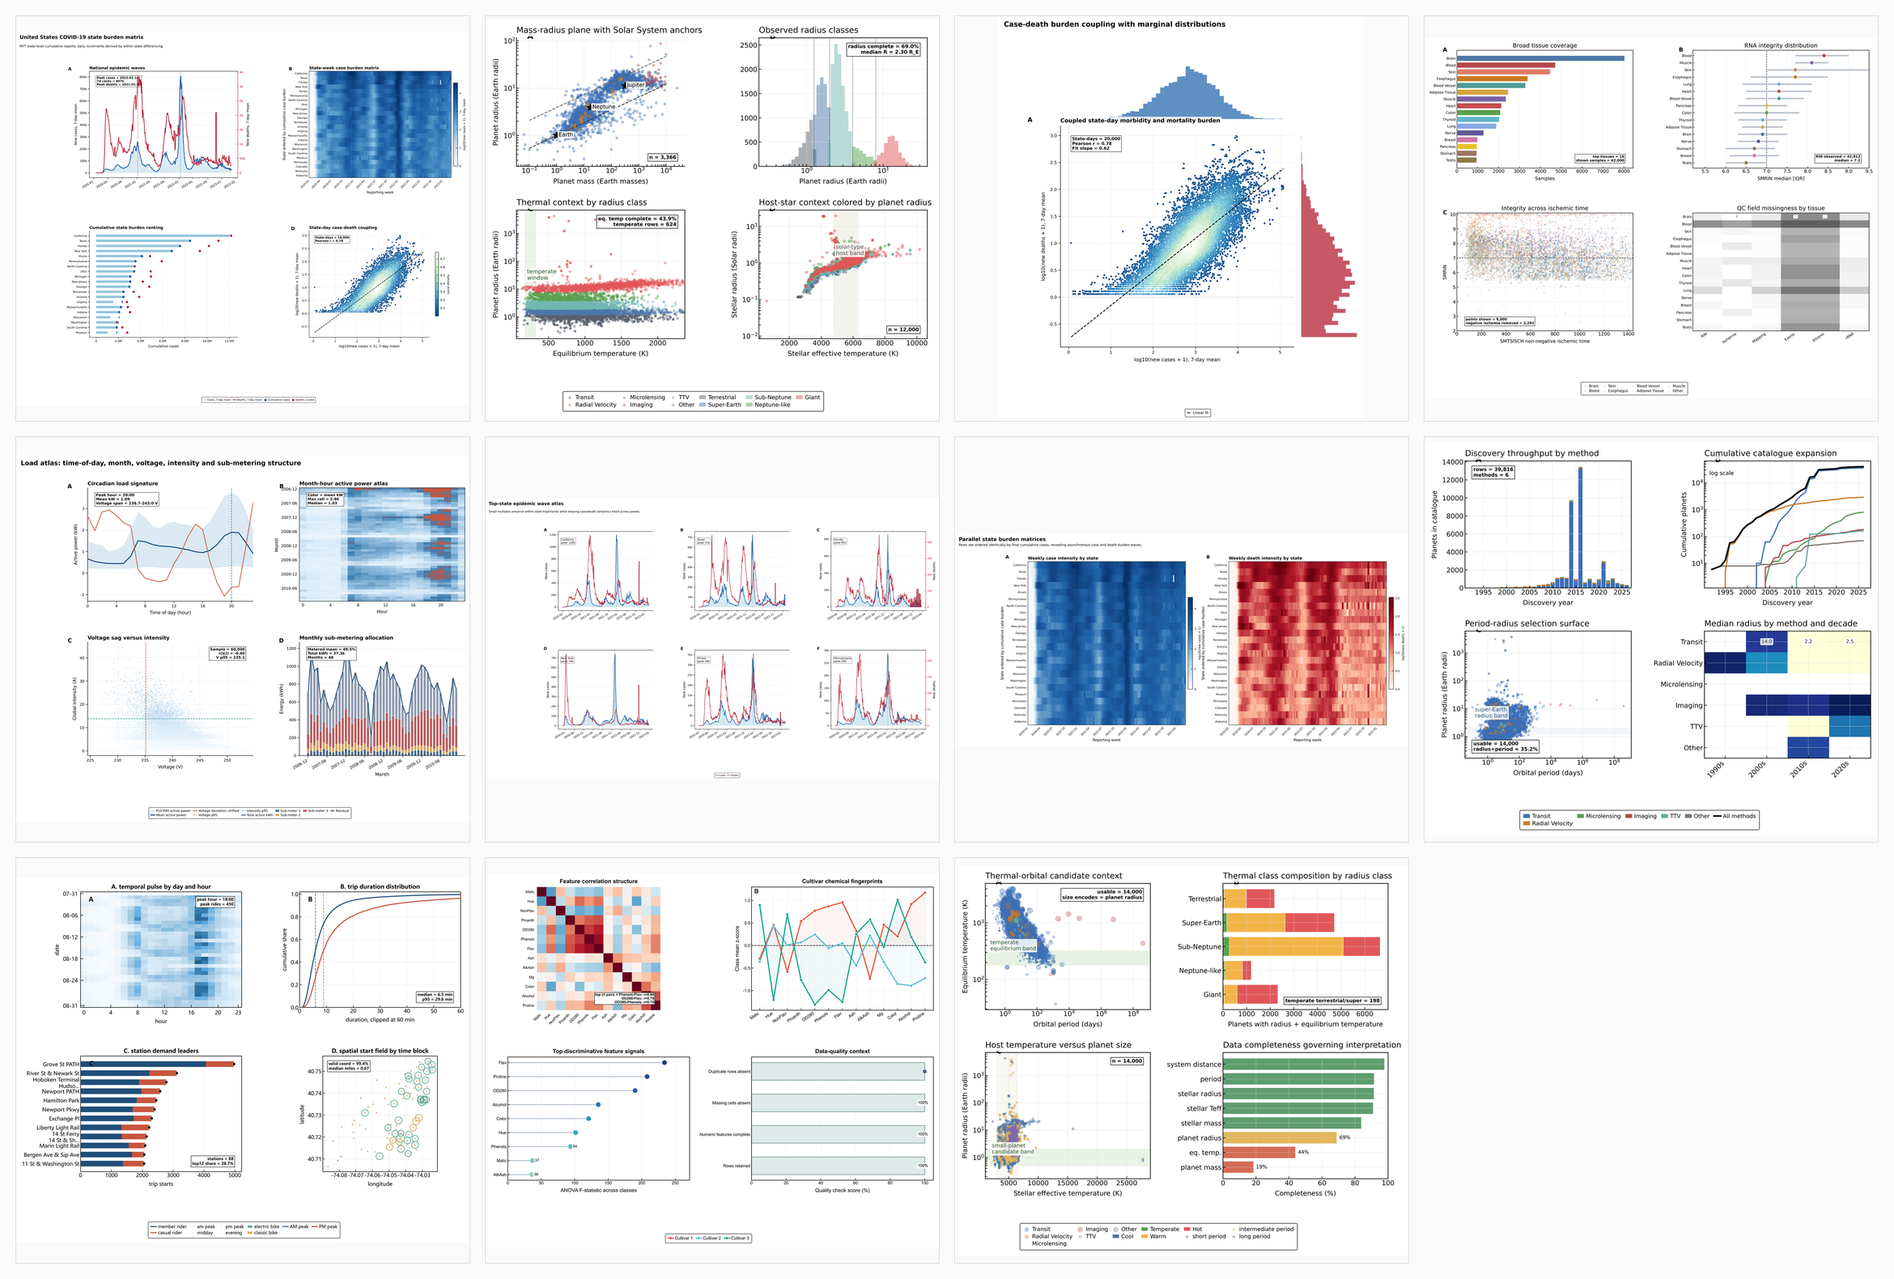
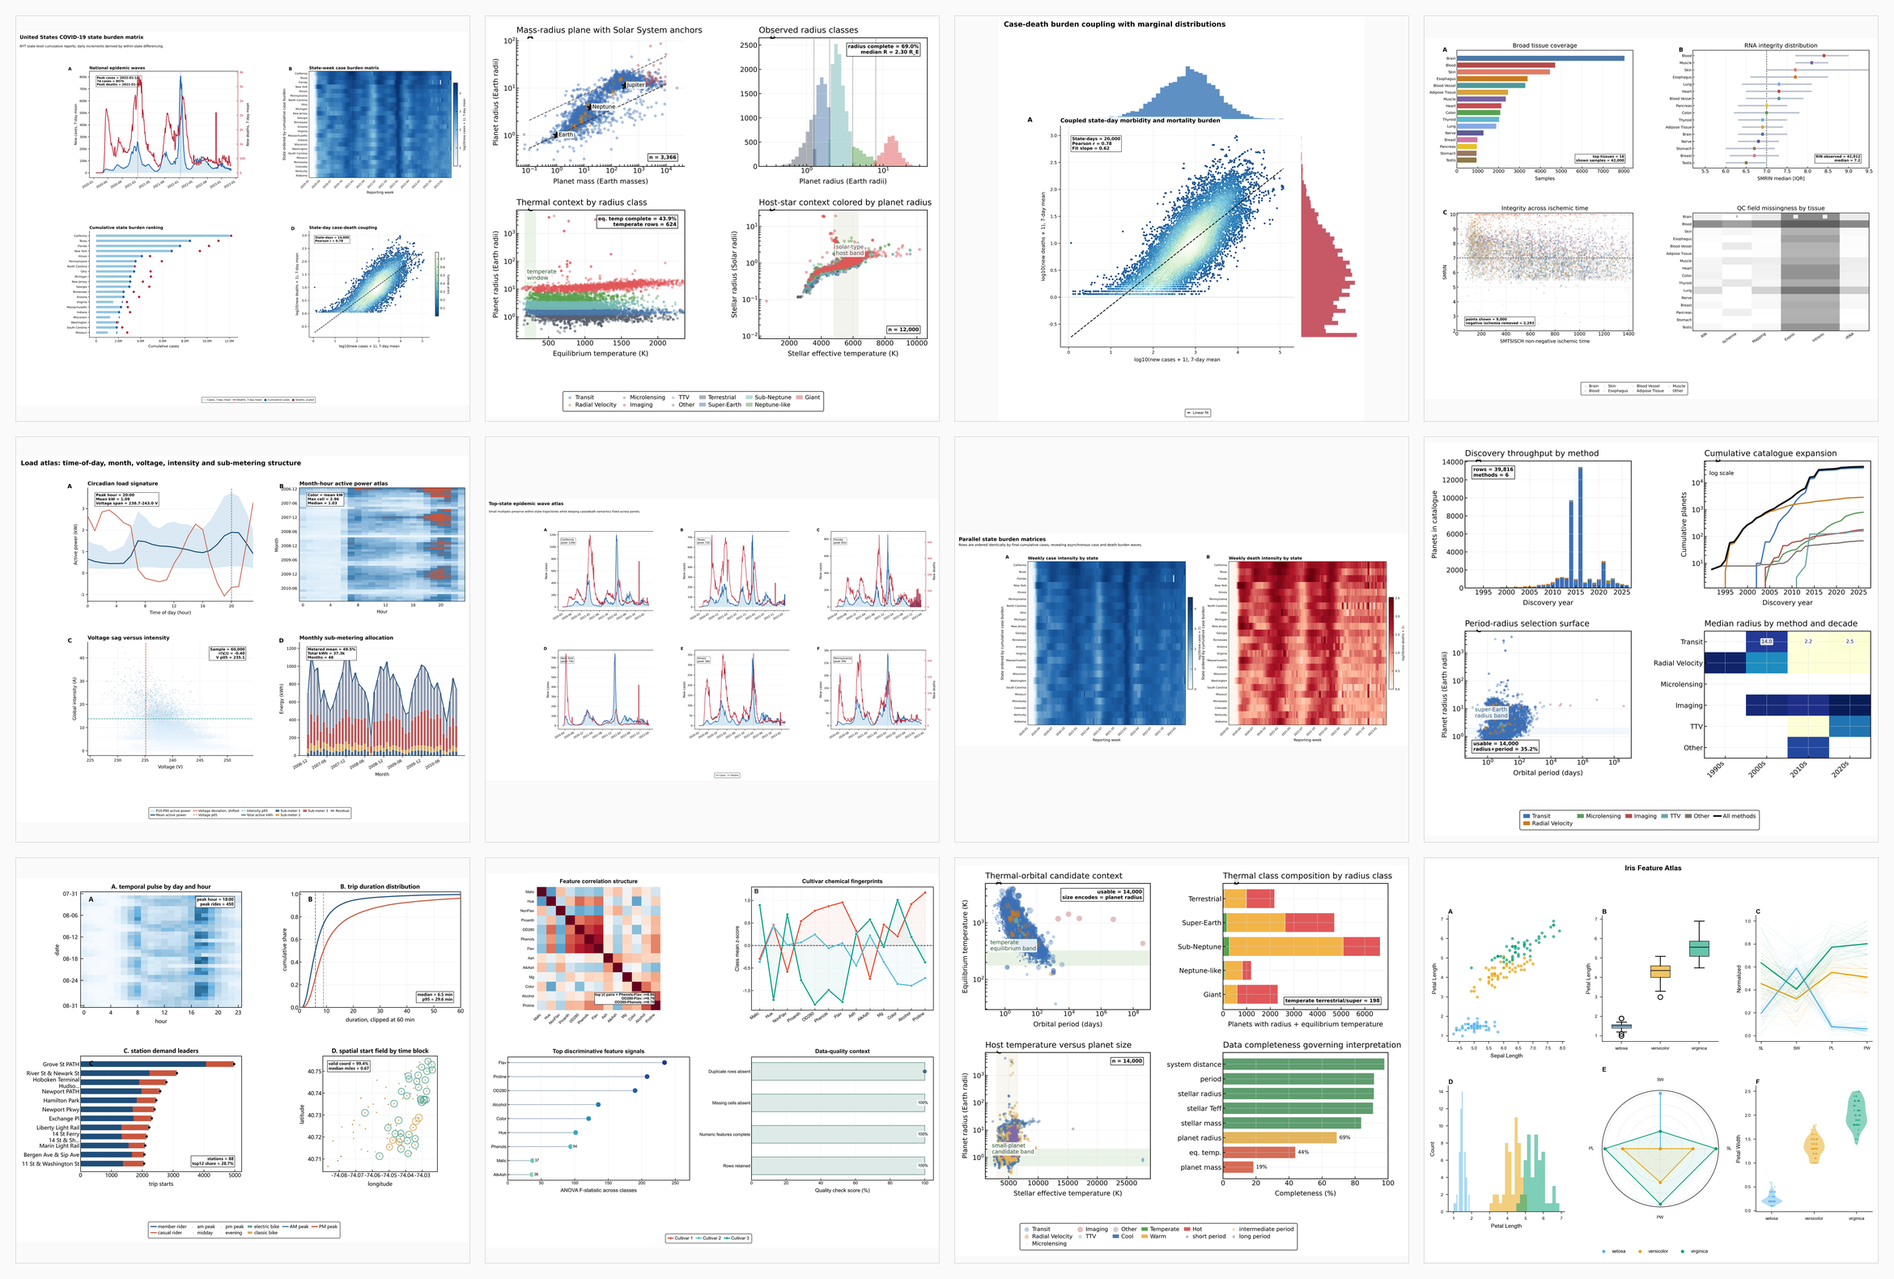
feat: Gallery 扩展至 12+12 张图，新增 6 种图表类型
新增 hero 图：Iris radar、Covid heatmap、GTEX raincloud、Power streamgraph、Citibike dotplot、Exoplanet bubble
新增 multi-panel：Iris feature atlas（补齐 4×3 网格）
拼合图重建为 4×3 完整网格

diff --git a/scripts/gallery_expansion.py b/scripts/gallery_expansion.py
@@ -1,0 +1,394 @@
+"""Gallery expansion — 7 new figures using SciFig skill design system.
+
+Generates 6 new hero figures + 1 new multi-panel using raw datasets,
+following Nature journal style (rcParams kernel from specs/journal-profiles.md)
+and colorblind-safe Wong/Okabe-Ito palette.
+"""
+import sys, os, warnings
+import numpy as np
+import pandas as pd
+import matplotlib
+matplotlib.use('Agg')
+import matplotlib.pyplot as plt
+from matplotlib.gridspec import GridSpec
+from matplotlib.patches import FancyBboxPatch
+from matplotlib.colors import LinearSegmentedColormap
+import matplotlib.patheffects as pe
+warnings.filterwarnings('ignore')
+
+# ── Paths ──
+BASE = r'D:\SciFig'
+GALLERY = os.path.join(BASE, 'docs', 'gallery')
+RAW = os.path.join(BASE, '.workflow', '.scratchpad', 'test-data', 'raw')
+
+# ── Nature-style rcParams (from specs/journal-profiles.md) ──
+def apply_nature():
+    plt.rcParams.update({
+        'font.family': 'sans-serif',
+        'font.sans-serif': ['Arial', 'Helvetica', 'DejaVu Sans'],
+        'font.size': 6,
+        'axes.linewidth': 0.6,
+        'axes.labelsize': 7,
+        'axes.titlesize': 7.5,
+        'axes.titleweight': 'bold',
+        'xtick.labelsize': 5.5,
+        'ytick.labelsize': 5.5,
+        'xtick.major.width': 0.6,
+        'ytick.major.width': 0.6,
+        'xtick.direction': 'out',
+        'ytick.direction': 'out',
+        'xtick.major.size': 3,
+        'ytick.major.size': 3,
+        'legend.fontsize': 5.5,
+        'legend.frameon': False,
+        'figure.dpi': 200,
+        'savefig.dpi': 200,
+        'lines.linewidth': 1.0,
+        'lines.markersize': 3,
+        'axes.grid': False,
+        'axes.spines.top': False,
+        'axes.spines.right': False,
+    })
+
+# ── Palettes ──
+WONG = ['#56B4E9', '#E69F00', '#009E73', '#D55E00', '#CC79A7',
+        '#0072B2', '#F0E442', '#000000']
+NATURE_CMAP = LinearSegmentedColormap.from_list(
+    'nature_heat', ['#4393C3', '#F7F7F7', '#D6604D'])
+
+DPI = 200
+FW = 7.2  # 183mm hero width in inches
+
+def save(fig, name):
+    p = os.path.join(GALLERY, name)
+    fig.savefig(p, dpi=DPI, bbox_inches='tight', facecolor='white', edgecolor='none')
+    w, h = fig.get_size_inches()
+    print(f'  {name}: {int(w*DPI)}x{int(h*DPI)}px')
+    plt.close(fig)
+
+
+# ═══════════════════════════════════════════════════════════════
+# 1. Iris Radar Hero
+# ═══════════════════════════════════════════════════════════════
+def gen_iris_radar():
+    df = pd.read_csv(os.path.join(RAW, 'uci_iris.csv'),
+                     names=['sepal_l', 'sepal_w', 'petal_l', 'petal_w', 'species'])
+    means = df.groupby('species').mean()
+    normed = (means - means.min()) / (means.max() - means.min())
+
+    features = ['Sepal L', 'Sepal W', 'Petal L', 'Petal W']
+    n = len(features)
+    angles = np.linspace(0, 2 * np.pi, n, endpoint=False).tolist()
+    angles_closed = angles + [angles[0]]
+
+    fig, ax = plt.subplots(figsize=(FW * 0.6, FW * 0.6),
+                           subplot_kw=dict(polar=True))
+    for i, (sp, row) in enumerate(normed.iterrows()):
+        vals = row.tolist() + [row.iloc[0]]
+        short = sp.replace('Iris-', '')
+        ax.plot(angles_closed, vals, 'o-', color=WONG[i], lw=1.2, ms=4, label=short)
+        ax.fill(angles_closed, vals, alpha=0.10, color=WONG[i])
+
+    ax.set_xticks(angles)
+    ax.set_xticklabels(features, fontsize=6.5)
+    ax.set_yticklabels([])
+    ax.set_ylim(0, 1.08)
+    ax.spines['polar'].set_linewidth(0.4)
+    ax.grid(True, lw=0.3, alpha=0.4)
+    ax.legend(loc='upper right', bbox_to_anchor=(1.18, 1.12), fontsize=6)
+    fig.tight_layout()
+    save(fig, 'iris_radar_hero.png')
+    print('  [1/7] Iris radar done')
+
+
+# ═══════════════════════════════════════════════════════════════
+# 2. Covid States Heatmap Hero
+# ═══════════════════════════════════════════════════════════════
+def gen_covid_heatmap():
+    df = pd.read_csv(os.path.join(RAW, 'nyt_covid_states.csv'))
+    df['date'] = pd.to_datetime(df['date'])
+    # Top 15 states by total cases
+    top = df.groupby('state')['cases'].max().nlargest(15).index
+    sub = df[df['state'].isin(top)]
+    # Monthly aggregation
+    sub = sub.set_index('date').groupby([pd.Grouper(freq='MS'), 'state'])['cases'].max().reset_index()
+    piv = sub.pivot(index='state', columns='date', values='cases').fillna(0)
+    piv = piv.loc[piv.sum(axis=1).sort_values(ascending=False).index]
+    # Log scale for readability
+    mat = np.log10(piv.values + 1)
+
+    fig, ax = plt.subplots(figsize=(FW, FW * 0.55))
+    im = ax.imshow(mat, aspect='auto', cmap=NATURE_CMAP, interpolation='nearest')
+    ax.set_yticks(range(len(piv.index)))
+    ax.set_yticklabels(piv.index, fontsize=5)
+    ax.set_xticks(range(0, len(piv.columns), 3))
+    ax.set_xticklabels([d.strftime('%b\n%Y') for d in piv.columns[::3]], fontsize=5)
+    ax.set_xlabel('')
+    ax.set_title('Cumulative COVID-19 Cases by State (log₁₀)', fontsize=7, pad=6)
+    cb = fig.colorbar(im, ax=ax, shrink=0.7, pad=0.02)
+    cb.ax.tick_params(labelsize=5)
+    cb.set_label('log₁₀(cases + 1)', fontsize=5.5)
+    ax.spines['top'].set_visible(True)
+    ax.spines['right'].set_visible(True)
+    ax.spines['top'].set_linewidth(0.4)
+    ax.spines['right'].set_linewidth(0.4)
+    fig.tight_layout()
+    save(fig, 'covid_states_heatmap_hero.png')
+    print('  [2/7] Covid heatmap done')
+
+
+# ═══════════════════════════════════════════════════════════════
+# 3. GTEX Raincloud Hero
+# ═══════════════════════════════════════════════════════════════
+def gen_gtex_raincloud():
+    df = pd.read_csv(os.path.join(RAW, 'gtex_samples.tsv'), sep='\t', low_memory=False)
+    # Use SMRIN (RIN score) grouped by tissue (SMTS)
+    metric = 'SMRIN'
+    tissue_col = 'SMTS'
+    sub = df[[tissue_col, metric]].dropna()
+    # Top 8 tissues by sample count
+    top_tissues = sub[tissue_col].value_counts().head(8).index
+    sub = sub[sub[tissue_col].isin(top_tissues)]
+    sub[tissue_col] = pd.Categorical(sub[tissue_col], categories=top_tissues, ordered=True)
+    groups = [g[metric].values for _, g in sub.groupby(tissue_col, observed=True)]
+    labels = [str(g) for g in top_tissues]
+
+    fig, ax = plt.subplots(figsize=(FW, FW * 0.6))
+    positions = np.arange(len(labels))
+    for i, (data, pos) in enumerate(zip(groups, positions)):
+        # Violin (half)
+        vp = ax.violinplot(data, [pos], showmeans=False, showextrema=False, widths=0.7)
+        for body in vp['bodies']:
+            body.set_facecolor(WONG[i % len(WONG)])
+            body.set_alpha(0.25)
+        # Box (narrow)
+        q1, med, q3 = np.percentile(data, [25, 50, 75])
+        ax.vlines(pos, q1, q3, lw=4, color=WONG[i % len(WONG)], alpha=0.7)
+        ax.scatter(pos, med, s=12, color='white', zorder=3, edgecolors='black', linewidths=0.5)
+        # Strip points (jittered)
+        jitter = np.random.default_rng(42).uniform(-0.15, 0.15, len(data))
+        sample_idx = np.random.default_rng(42).choice(len(data), min(60, len(data)), replace=False)
+        ax.scatter(pos + jitter[sample_idx], data[sample_idx],
+                   s=2, alpha=0.35, color=WONG[i % len(WONG)], zorder=2)
+
+    ax.set_xticks(positions)
+    ax.set_xticklabels(labels, fontsize=5, rotation=25, ha='right')
+    ax.set_ylabel('RIN Score')
+    ax.set_title('GTEx Sample Quality by Tissue', fontsize=7, pad=6)
+    fig.tight_layout()
+    save(fig, 'gtex_raincloud_hero.png')
+    print('  [3/7] GTEX raincloud done')
+
+
+# ═══════════════════════════════════════════════════════════════
+# 4. Power Streamgraph Hero
+# ═══════════════════════════════════════════════════════════════
+def gen_power_streamgraph():
+    df = pd.read_csv(os.path.join(RAW, 'uci_power.csv'), sep=';', low_memory=True)
+    df.columns = [c.strip() for c in df.columns]
+    df = df.replace('?', np.nan)
+    for c in ['Sub_metering_1', 'Sub_metering_2', 'Sub_metering_3']:
+        df[c] = pd.to_numeric(df[c], errors='coerce')
+    df['Global_active_power'] = pd.to_numeric(df['Global_active_power'], errors='coerce')
+    # Sample every 500 rows for performance
+    df = df.iloc[::500].reset_index(drop=True)
+    n = len(df)
+    x = np.arange(n)
+    y1 = df['Sub_metering_1'].fillna(0).values
+    y2 = df['Sub_metering_2'].fillna(0).values
+    y3 = df['Sub_metering_3'].fillna(0).values
+
+    # Stack and center for streamgraph effect
+    y_stack = np.vstack([y1, y2, y3])
+    y_cum = np.vstack([np.zeros_like(x), np.cumsum(y_stack, axis=0)])
+    y_centered = y_cum - y_cum[-1:] / 2
+
+    fig, ax = plt.subplots(figsize=(FW, FW * 0.5))
+    labels_sm = ['Kitchen', 'Laundry', 'Water Heater']
+    colors = [WONG[0], WONG[1], WONG[2]]
+    for i in range(3):
+        ax.fill_between(x, y_centered[i], y_centered[i+1],
+                        color=colors[i], alpha=0.75, label=labels_sm[i])
+
+    ax.set_xlim(0, n)
+    ax.set_ylim(y_centered.min() * 1.1, y_centered.max() * 1.1)
+    ax.set_ylabel('Power (Wh)')
+    ax.set_xlabel('Time (sampled)')
+    ax.set_title('Household Power Consumption — Sub-metering Streamgraph', fontsize=7, pad=6)
+    ax.legend(loc='upper right', fontsize=5.5)
+    fig.tight_layout()
+    save(fig, 'power_streamgraph_hero.png')
+    print('  [4/7] Power streamgraph done')
+
+
+# ═══════════════════════════════════════════════════════════════
+# 5. Citibike Dotplot Hero
+# ═══════════════════════════════════════════════════════════════
+def gen_citibike_dotplot():
+    df = pd.read_csv(os.path.join(RAW, 'citi_bike_jc_202508.csv'), low_memory=False)
+    # Top 15 start stations by ride count
+    top = df['start_station_name'].value_counts().head(15)
+    stations = top.values[::-1]
+    names = top.index[::-1].str.slice(0, 30)
+
+    fig, ax = plt.subplots(figsize=(FW, FW * 0.55))
+    y = np.arange(len(names))
+    colors = [WONG[0] if i < 8 else WONG[2] for i in range(len(names))]
+    ax.scatter(stations, y, s=stations * 0.6, c=colors, alpha=0.7, edgecolors='white', linewidths=0.5, zorder=3)
+    ax.hlines(y, 0, stations, color='#cccccc', linewidth=0.5, zorder=1)
+
+    ax.set_yticks(y)
+    ax.set_yticklabels(names, fontsize=5.5)
+    ax.set_xlabel('Number of Rides')
+    ax.set_title('Top 15 Citi Bike Stations — Ride Count', fontsize=7, pad=6)
+    ax.spines['left'].set_linewidth(0.4)
+    ax.set_xlim(0, stations.max() * 1.1)
+    fig.tight_layout()
+    save(fig, 'citibike_dotplot_hero.png')
+    print('  [5/7] Citibike dotplot done')
+
+
+# ═══════════════════════════════════════════════════════════════
+# 6. Exoplanet Bubble Scatter Hero
+# ═══════════════════════════════════════════════════════════════
+def gen_exoplanet_bubble():
+    df = pd.read_csv(os.path.join(RAW, 'nasa_exoplanets.csv'), low_memory=False)
+    sub = df.dropna(subset=['pl_bmasse', 'pl_rade', 'pl_eqt']).copy()
+    sub = sub[(sub['pl_bmasse'] < 5000) & (sub['pl_rade'] < 20)]
+
+    fig, ax = plt.subplots(figsize=(FW, FW * 0.65))
+    sc = ax.scatter(sub['pl_rade'], sub['pl_bmasse'],
+                    c=sub['pl_eqt'], cmap='RdYlBu_r',
+                    s=np.clip(sub['pl_orbper'].fillna(1) * 0.3, 3, 80),
+                    alpha=0.55, edgecolors='none', linewidths=0.3)
+
+    ax.set_xlabel('Planet Radius (R⊕)')
+    ax.set_ylabel('Planet Mass (M⊕)')
+    ax.set_title('Exoplanet Mass–Radius Relation', fontsize=7, pad=6)
+    ax.set_yscale('log')
+    ax.set_xscale('log')
+    cb = fig.colorbar(sc, ax=ax, shrink=0.7, pad=0.02)
+    cb.set_label('Equilibrium Temp (K)', fontsize=5.5)
+    cb.ax.tick_params(labelsize=5)
+    fig.tight_layout()
+    save(fig, 'exoplanet_bubble_hero.png')
+    print('  [6/7] Exoplanet bubble done')
+
+
+# ═══════════════════════════════════════════════════════════════
+# 7. Iris Multi-Panel Feature Atlas
+# ═══════════════════════════════════════════════════════════════
+def gen_iris_atlas():
+    df = pd.read_csv(os.path.join(RAW, 'uci_iris.csv'),
+                     names=['sepal_l', 'sepal_w', 'petal_l', 'petal_w', 'species'])
+    species = df['species'].unique()
+    colors = {s: WONG[i] for i, s in enumerate(species)}
+
+    fig = plt.figure(figsize=(FW * 1.35, FW * 0.95))
+    gs = GridSpec(2, 3, figure=fig, hspace=0.35, wspace=0.32)
+
+    # Panel A: Scatter matrix (sepal_l vs petal_l)
+    ax1 = fig.add_subplot(gs[0, 0])
+    for s in species:
+        sub = df[df['species'] == s]
+        ax1.scatter(sub['sepal_l'], sub['petal_l'], s=8, alpha=0.6,
+                    color=colors[s], label=s.replace('Iris-', ''))
+    ax1.set_xlabel('Sepal Length')
+    ax1.set_ylabel('Petal Length')
+    ax1.set_title('A', fontsize=8, fontweight='bold', loc='left', pad=2)
+
+    # Panel B: Box plots
+    ax2 = fig.add_subplot(gs[0, 1])
+    feat = 'petal_l'
+    data_box = [df[df['species'] == s][feat].values for s in species]
+    bp = ax2.boxplot(data_box, patch_artist=True, widths=0.5,
+                     medianprops=dict(color='black', linewidth=0.8))
+    for patch, s in zip(bp['boxes'], species):
+        patch.set_facecolor(colors[s])
+        patch.set_alpha(0.6)
+    ax2.set_xticklabels([s.replace('Iris-', '') for s in species], fontsize=5.5)
+    ax2.set_ylabel('Petal Length')
+    ax2.set_title('B', fontsize=8, fontweight='bold', loc='left', pad=2)
+
+    # Panel C: Parallel coordinates
+    ax3 = fig.add_subplot(gs[0, 2])
+    features = ['sepal_l', 'sepal_w', 'petal_l', 'petal_w']
+    x_feat = np.arange(len(features))
+    for s in species:
+        sub = df[df['species'] == s]
+        normed = (sub[features] - df[features].min()) / (df[features].max() - df[features].min())
+        for _, row in normed.iterrows():
+            ax3.plot(x_feat, row.values, color=colors[s], alpha=0.08, lw=0.5)
+        # Mean line
+        mean_normed = (sub[features].mean() - df[features].min()) / (df[features].max() - df[features].min())
+        ax3.plot(x_feat, mean_normed.values, color=colors[s], lw=1.5, label=s.replace('Iris-', ''))
+    ax3.set_xticks(x_feat)
+    ax3.set_xticklabels(['SL', 'SW', 'PL', 'PW'], fontsize=5.5)
+    ax3.set_ylabel('Normalized')
+    ax3.set_title('C', fontsize=8, fontweight='bold', loc='left', pad=2)
+
+    # Panel D: Histogram (petal_l)
+    ax4 = fig.add_subplot(gs[1, 0])
+    for s in species:
+        sub = df[df['species'] == s]
+        ax4.hist(sub['petal_l'], bins=12, alpha=0.5, color=colors[s], label=s.replace('Iris-', ''))
+    ax4.set_xlabel('Petal Length')
+    ax4.set_ylabel('Count')
+    ax4.set_title('D', fontsize=8, fontweight='bold', loc='left', pad=2)
+
+    # Panel E: Radar summary
+    ax5 = fig.add_subplot(gs[1, 1], polar=True)
+    means = df.groupby('species')[features].mean()
+    normed = (means - means.min()) / (means.max() - means.min())
+    n_feat = len(features)
+    angles = np.linspace(0, 2 * np.pi, n_feat, endpoint=False).tolist()
+    angles_closed = angles + [angles[0]]
+    for s in species:
+        vals = normed.loc[s].tolist() + [normed.loc[s].iloc[0]]
+        ax5.plot(angles_closed, vals, 'o-', color=colors[s], lw=1, ms=3, label=s.replace('Iris-', ''))
+        ax5.fill(angles_closed, vals, alpha=0.08, color=colors[s])
+    ax5.set_xticks(angles)
+    ax5.set_xticklabels(['SL', 'SW', 'PL', 'PW'], fontsize=5.5)
+    ax5.set_yticklabels([])
+    ax5.set_title('E', fontsize=8, fontweight='bold', loc='left', pad=8)
+    ax5.grid(True, lw=0.3, alpha=0.4)
+
+    # Panel F: Violin plot (petal_w)
+    ax6 = fig.add_subplot(gs[1, 2])
+    data_violin = [df[df['species'] == s]['petal_w'].values for s in species]
+    vp = ax6.violinplot(data_violin, showmeans=False, showextrema=False)
+    for i, body in enumerate(vp['bodies']):
+        body.set_facecolor(list(colors.values())[i])
+        body.set_alpha(0.45)
+    for i, (data, s) in enumerate(zip(data_violin, species)):
+        jitter = np.random.default_rng(42).uniform(-0.08, 0.08, len(data))
+        ax6.scatter(np.full(len(data), i + 1) + jitter, data,
+                    s=2, alpha=0.3, color=list(colors.values())[i])
+    ax6.set_xticks([1, 2, 3])
+    ax6.set_xticklabels([s.replace('Iris-', '') for s in species], fontsize=5.5)
+    ax6.set_ylabel('Petal Width')
+    ax6.set_title('F', fontsize=8, fontweight='bold', loc='left', pad=2)
+
+    # Shared legend
+    handles = [plt.Line2D([0], [0], marker='o', color='w', markerfacecolor=colors[s],
+                          markersize=5, label=s.replace('Iris-', '')) for s in species]
+    fig.legend(handles=handles, loc='lower center', ncol=3, fontsize=6,
+               bbox_to_anchor=(0.5, -0.01))
+    fig.suptitle('Iris Feature Atlas', fontsize=9, fontweight='bold', y=1.01)
+    fig.tight_layout(rect=[0, 0.03, 1, 0.99])
+    save(fig, 'iris_feature_atlas.png')
+    print('  [7/7] Iris atlas done')
+
+
+# ── Main ──
+if __name__ == '__main__':
+    apply_nature()
+    print('Generating 7 new gallery figures...')
+    gen_iris_radar()
+    gen_covid_heatmap()
+    gen_gtex_raincloud()
+    gen_power_streamgraph()
+    gen_citibike_dotplot()
+    gen_exoplanet_bubble()
+    gen_iris_atlas()
+    print('\nAll 7 figures generated successfully!')
